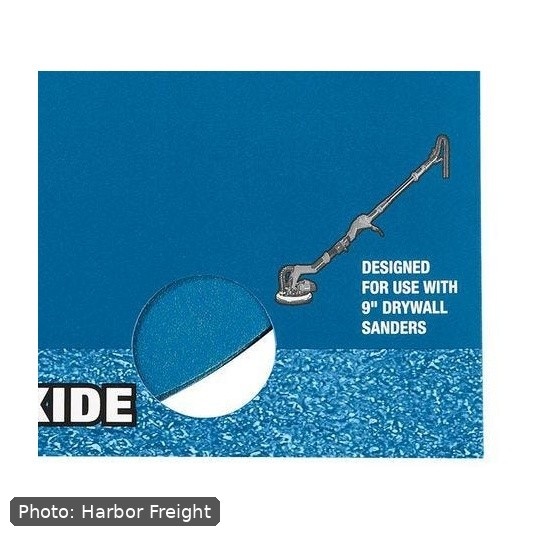
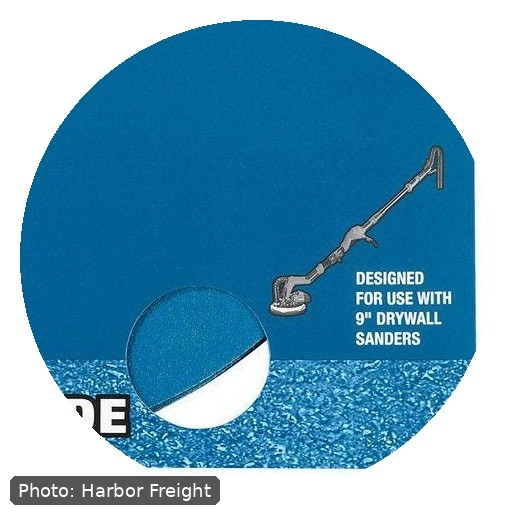
Polish drywall seed photos and 3M pack name

diff --git a/src/seed/drywall.ts b/src/seed/drywall.ts
@@ -85,9 +85,9 @@ export const DRYWALL_SEED: SeedSpec[] = [
   },
   {
     id: 'seed-3m-80-sheets',
-    name: '3M Drywall Sanding Sheets 80 Grit (25-Pack)',
+    name: '3M Drywall Sanding Sheets 80 Grit (100-Pack)',
     description:
-      '3M coarse 80 grit drywall sanding sheets, approx 4-3/16" x 11-1/4", package marked 25 sheets. Fits hand sanders.',
+      '3M Contractor Grade coarse 80 grit drywall pole sanding sheets, approx 4-3/16" x 11-1/4", package marked 100 sheets. Fits hand/pole sanders.',
     quantity: 1,
     cost: 18.0,
     location: 'top shelf of black closet',
@@ -184,7 +184,7 @@ async function fetchSeedPhoto(photoFile: string): Promise<Blob | undefined> {
 
 let seedLock: Promise<void> | null = null
 
-const SEED_PHOTO_VERSION = '4'
+const SEED_PHOTO_VERSION = '5'
 const SEED_PHOTO_VERSION_KEY = 'inventory-seed-photo-version'
 
 async function seedOnce(adapter: InventoryAdapter): Promise<void> {
